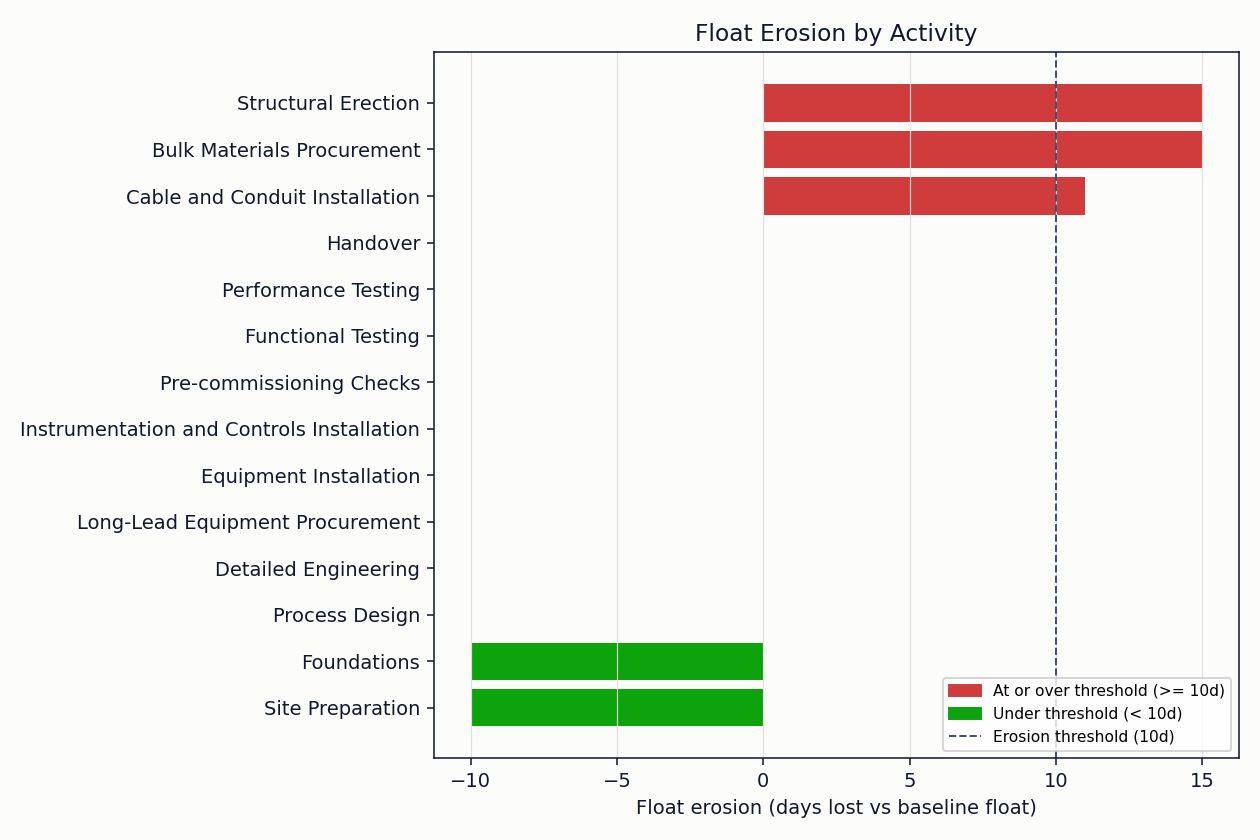
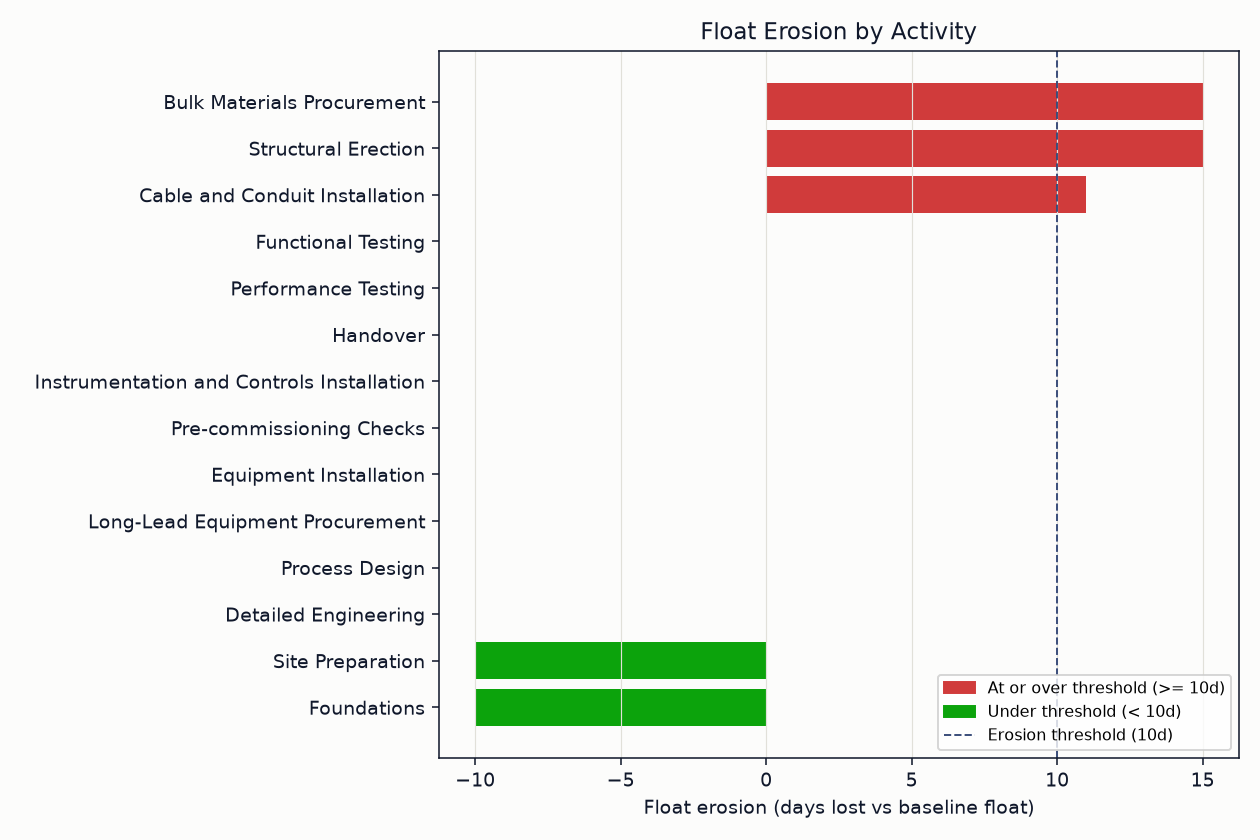
Extract shared chart-style module
Move the chart chrome helper and color constants (duplicated identically
across all six toolkit repos) into src/chart_style.py, following the same
vendoring convention already used for the shared engines. No behavior
change; regenerates charts/report.md against the palette unchanged.

diff --git a/analyzer.py b/analyzer.py
@@ -18,38 +18,12 @@ import matplotlib.dates as mdates
 import matplotlib.pyplot as plt
 import pandas as pd
 
-from src import metrics
+from src import chart_style, metrics
 
 DATA_DIR = os.path.join(os.path.dirname(__file__), "data")
 ASSETS_DIR = os.path.join(os.path.dirname(__file__), "assets")
 
 PROJECT_START = "2026-01-05"
-
-# Standardized chart color system (chart chrome, status scale, baseline/reference)
-CHART_BG = "#fcfcfb"
-INK = "#10182b"
-GRID = "#e1e0d9"
-BASELINE = "#3a4d7a"
-STATUS_GOOD = "#0ca30c"
-STATUS_WARNING = "#fab219"
-STATUS_CRITICAL = "#d03b3b"
-
-
-def _apply_chrome(fig, axes) -> None:
-    """Apply the standardized chart chrome (background, ink, gridlines) to a figure."""
-    fig.patch.set_facecolor(CHART_BG)
-    if hasattr(axes, "flatten"):
-        axes = axes.flatten().tolist()
-    elif not isinstance(axes, (list, tuple)):
-        axes = [axes]
-    for ax in axes:
-        ax.set_facecolor(CHART_BG)
-        ax.title.set_color(INK)
-        ax.xaxis.label.set_color(INK)
-        ax.yaxis.label.set_color(INK)
-        ax.tick_params(colors=INK)
-        for spine in ax.spines.values():
-            spine.set_color(INK)
 
 
 def status_tag(row) -> str:
@@ -165,13 +139,14 @@ def write_report_markdown(comparison, score, baseline_finish, current_finish) ->
 
 def chart_baseline_vs_current(comparison) -> None:
     fig, ax = plt.subplots(figsize=(10, 7))
-    colors = {"CRITICAL": STATUS_CRITICAL, "near-critical": STATUS_WARNING, "ok": STATUS_GOOD}
+    colors = {"CRITICAL": chart_style.STATUS_CRITICAL, "near-critical": chart_style.STATUS_WARNING,
+              "ok": chart_style.STATUS_GOOD}
     for i, row in enumerate(comparison.itertuples()):
         b_start = mdates.date2num(row.baseline_start)
         b_width = mdates.date2num(row.baseline_finish) - b_start
         c_start = mdates.date2num(row.current_start)
         c_width = mdates.date2num(row.current_finish) - c_start
-        ax.barh(i - 0.15, b_width, left=b_start, height=0.3, color=BASELINE)
+        ax.barh(i - 0.15, b_width, left=b_start, height=0.3, color=chart_style.BASELINE)
         tag = criticality_tag(row._asdict())
         ax.barh(i + 0.15, c_width, left=c_start, height=0.3, color=colors[tag])
 
@@ -180,41 +155,41 @@ def chart_baseline_vs_current(comparison) -> None:
     ax.invert_yaxis()
     ax.xaxis_date()
     ax.set_title("Baseline vs Current Schedule, by criticality")
-    handles = [plt.Rectangle((0, 0), 1, 1, color=BASELINE, label="Baseline")]
+    handles = [plt.Rectangle((0, 0), 1, 1, color=chart_style.BASELINE, label="Baseline")]
     handles += [plt.Rectangle((0, 0), 1, 1, color=c, label=k) for k, c in colors.items()]
     ax.legend(handles=handles, loc="lower right", fontsize=8)
-    ax.grid(color=GRID, linewidth=0.6, axis="x")
-    _apply_chrome(fig, ax)
+    ax.grid(color=chart_style.GRID, linewidth=0.6, axis="x")
+    chart_style.apply_chrome(fig, ax)
     fig.autofmt_xdate()
     fig.tight_layout()
-    fig.savefig(os.path.join(ASSETS_DIR, "baseline_vs_current.png"), dpi=140, facecolor=CHART_BG)
+    fig.savefig(os.path.join(ASSETS_DIR, "baseline_vs_current.png"), dpi=140, facecolor=chart_style.CHART_BG)
     plt.close(fig)
 
 
 def chart_float_erosion(comparison) -> None:
     ranked = comparison.sort_values("float_erosion", ascending=True)
-    colors = [STATUS_CRITICAL if v >= metrics.EROSION_THRESHOLD_DAYS else STATUS_GOOD
+    colors = [chart_style.STATUS_CRITICAL if v >= metrics.EROSION_THRESHOLD_DAYS else chart_style.STATUS_GOOD
               for v in ranked["float_erosion"]]
     fig, ax = plt.subplots(figsize=(9, 6))
     ax.barh(ranked["activity_name"], ranked["float_erosion"], color=colors)
     threshold_line = ax.axvline(
-        metrics.EROSION_THRESHOLD_DAYS, color=BASELINE, linestyle="--", linewidth=1,
+        metrics.EROSION_THRESHOLD_DAYS, color=chart_style.BASELINE, linestyle="--", linewidth=1,
         label=f"Erosion threshold ({metrics.EROSION_THRESHOLD_DAYS}d)",
     )
     ax.set_xlabel("Float erosion (days lost vs baseline float)")
     ax.set_title("Float Erosion by Activity")
     handles = [
-        plt.Rectangle((0, 0), 1, 1, color=STATUS_CRITICAL,
+        plt.Rectangle((0, 0), 1, 1, color=chart_style.STATUS_CRITICAL,
                       label=f"At or over threshold (>= {metrics.EROSION_THRESHOLD_DAYS}d)"),
-        plt.Rectangle((0, 0), 1, 1, color=STATUS_GOOD,
+        plt.Rectangle((0, 0), 1, 1, color=chart_style.STATUS_GOOD,
                       label=f"Under threshold (< {metrics.EROSION_THRESHOLD_DAYS}d)"),
         threshold_line,
     ]
     ax.legend(handles=handles, loc="lower right", fontsize=8)
-    ax.grid(color=GRID, linewidth=0.6, axis="x")
-    _apply_chrome(fig, ax)
+    ax.grid(color=chart_style.GRID, linewidth=0.6, axis="x")
+    chart_style.apply_chrome(fig, ax)
     fig.tight_layout()
-    fig.savefig(os.path.join(ASSETS_DIR, "float_erosion.png"), dpi=140, facecolor=CHART_BG)
+    fig.savefig(os.path.join(ASSETS_DIR, "float_erosion.png"), dpi=140, facecolor=chart_style.CHART_BG)
     plt.close(fig)
 
 

diff --git a/src/chart_style.py b/src/chart_style.py
@@ -1,0 +1,38 @@
+"""Standardized chart color system and chrome (chart chrome, status scale, baseline/reference).
+
+This module is identical, byte-for-byte, across all six repos in the
+github.com/alexc-hue project-controls toolkit (schedule-health-analyzer,
+project-controls-dashboard, change-control-register, risk-trend-tracker,
+project-controls-reporting-engine, recovery-scenario-planner). Each repo
+carries its own copy so it stays independently cloneable and runnable
+without pulling in the others, the same rationale the vendored engines
+already document. project-controls-dashboard is the canonical source; if
+the palette changes, update it there first and re-sync the rest.
+"""
+
+from __future__ import annotations
+
+CHART_BG = "#fcfcfb"
+INK = "#10182b"
+GRID = "#e1e0d9"
+BASELINE = "#3a4d7a"
+STATUS_GOOD = "#0ca30c"
+STATUS_WARNING = "#fab219"
+STATUS_CRITICAL = "#d03b3b"
+
+
+def apply_chrome(fig, axes) -> None:
+    """Apply the standardized chart chrome (background, ink, gridlines) to a figure."""
+    fig.patch.set_facecolor(CHART_BG)
+    if hasattr(axes, "flatten"):
+        axes = axes.flatten().tolist()
+    elif not isinstance(axes, (list, tuple)):
+        axes = [axes]
+    for ax in axes:
+        ax.set_facecolor(CHART_BG)
+        ax.title.set_color(INK)
+        ax.xaxis.label.set_color(INK)
+        ax.yaxis.label.set_color(INK)
+        ax.tick_params(colors=INK)
+        for spine in ax.spines.values():
+            spine.set_color(INK)

diff --git a/assets/report.md b/assets/report.md
@@ -36,6 +36,6 @@
 | Bulk Materials Procurement | +15d | +0d | CRITICAL |
 | Structural Erection | +15d | +0d | CRITICAL |
 | Cable and Conduit Installation | +11d | +9d | ok |
-| Process Design | +0d | +0d | CRITICAL |
-| Detailed Engineering | +0d | +0d | CRITICAL |
 | Long-Lead Equipment Procurement | +0d | +0d | CRITICAL |
+| Detailed Engineering | +0d | +0d | CRITICAL |
+| Process Design | +0d | +0d | CRITICAL |
